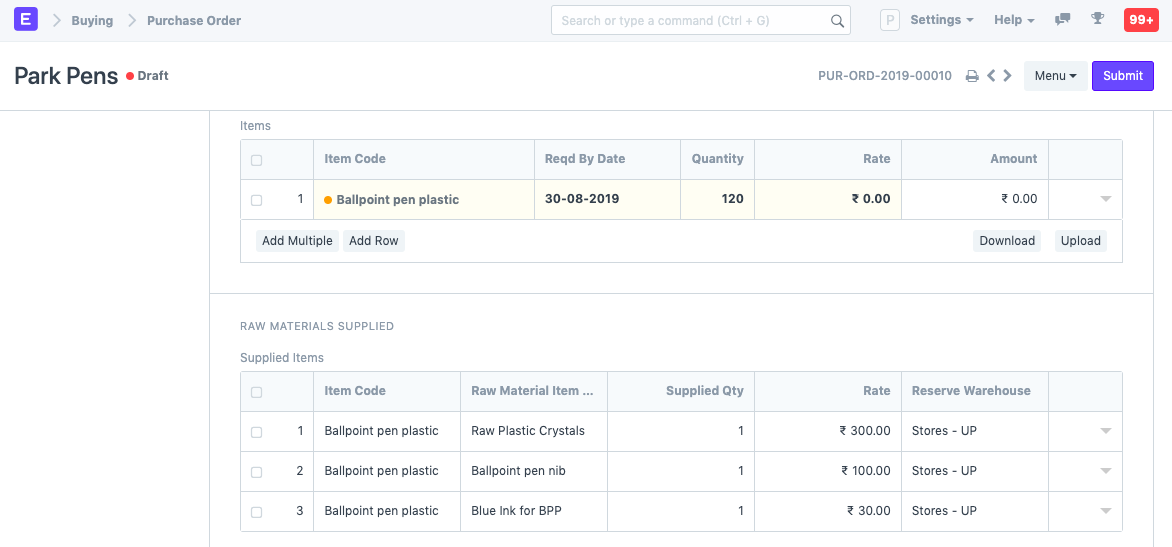
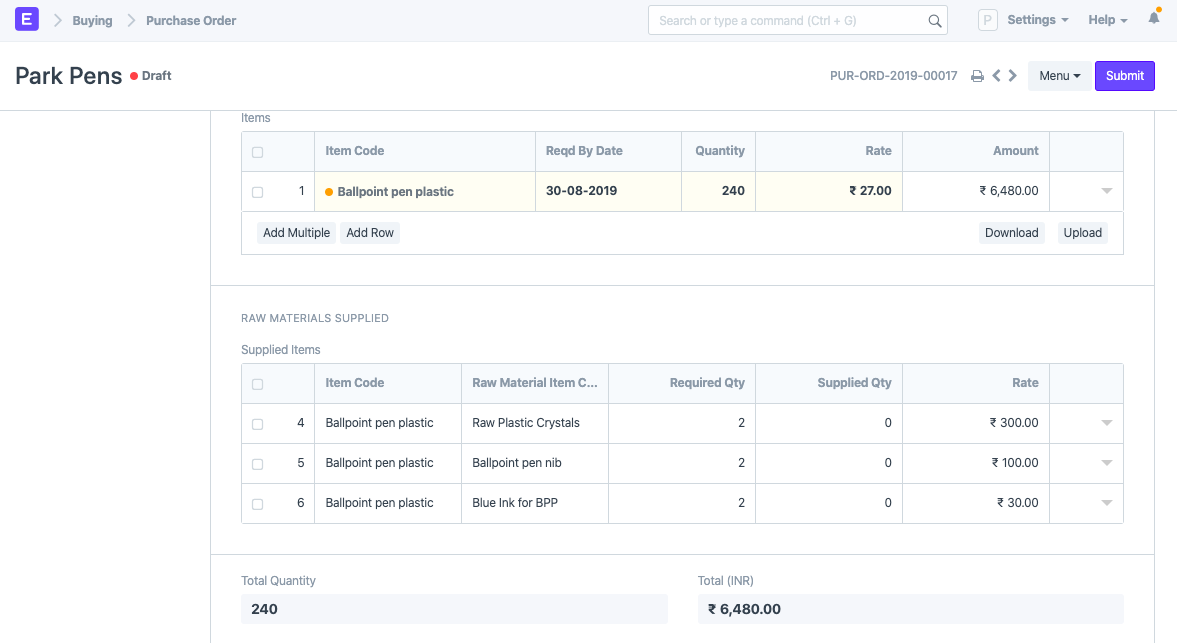
update: subcontracting (#613)

diff --git a/erpnext_com/www/docs/user/manual/en/manufacturing/subcontracting.md b/erpnext_com/www/docs/user/manual/en/manufacturing/subcontracting.md
@@ -32,16 +32,20 @@ This BOM will be without Operations if all of the production work is done by the
 ### 1.2 Creating a Purchase Order
 Make a Purchase Order for the processed Item, the one for which you've created a BOM. When you “Save”, in the “Raw Materials Supplied”, all your un-processed Items will be updated based on your Bill of Materials. You can also select the Warehouse in which the raw materials would be reserved for subcontracting under Reserve Warehouse. 
 
-You need to set 'Supply Raw Materials' as Yes since this Purchase Order is for subcontracting.
+1. The costs involved with the subcontracting process should be recorded in the Rate field of the Items table in the Purchase Order shown as follows:
 
-<img class="screenshot" alt="Sub-Contracting" src="{{docs_base_url}}/assets/img/manufacturing/subcontract3.png">
+  <img class="screenshot" alt="Sub-Contracting" src="{{docs_base_url}}/assets/img/manufacturing/subcontract3.png">
 
-From a Purchase Order, select the raw materials to transfer to subcontractor:
-![Sub-Contracting](/docs/assets/img/manufacturing/po_material_transfer_subcontract.gif)
+1. In the previous image, we are providing the subcontractor with 2 boxes of each of the 3 materials to manufacture 240 pens. The cost involved with one pen is 27 and the total cost for all pens is hence 6,480
 
-Once the PO is submitted, you can view the reserved quantity of the item from the item dashboard as well.
+1. You need to set 'Supply Raw Materials' as Yes since this Purchase Order is for subcontracting.
 
-<img class="screenshot" alt="Sub-Contracting" src="{{docs_base_url}}/assets/img/manufacturing/subcontract3-reserved-material.png">
+1. From a Purchase Order, select the raw materials to transfer to subcontractor:
+  ![Sub-Contracting](/docs/assets/img/manufacturing/po_material_transfer_subcontract.gif)
+
+1. Once the PO is submitted, you can view the reserved quantity of the item from the item dashboard as well.
+
+  <img class="screenshot" alt="Sub-Contracting" src="{{docs_base_url}}/assets/img/manufacturing/subcontract3-reserved-material.png">
 
 ### 1.3 Creating Stock Entry to Transfer Raw Materials
 Now that the raw materials are reserved, make a Stock Entry to deliver the raw material Items to your Supplier.
